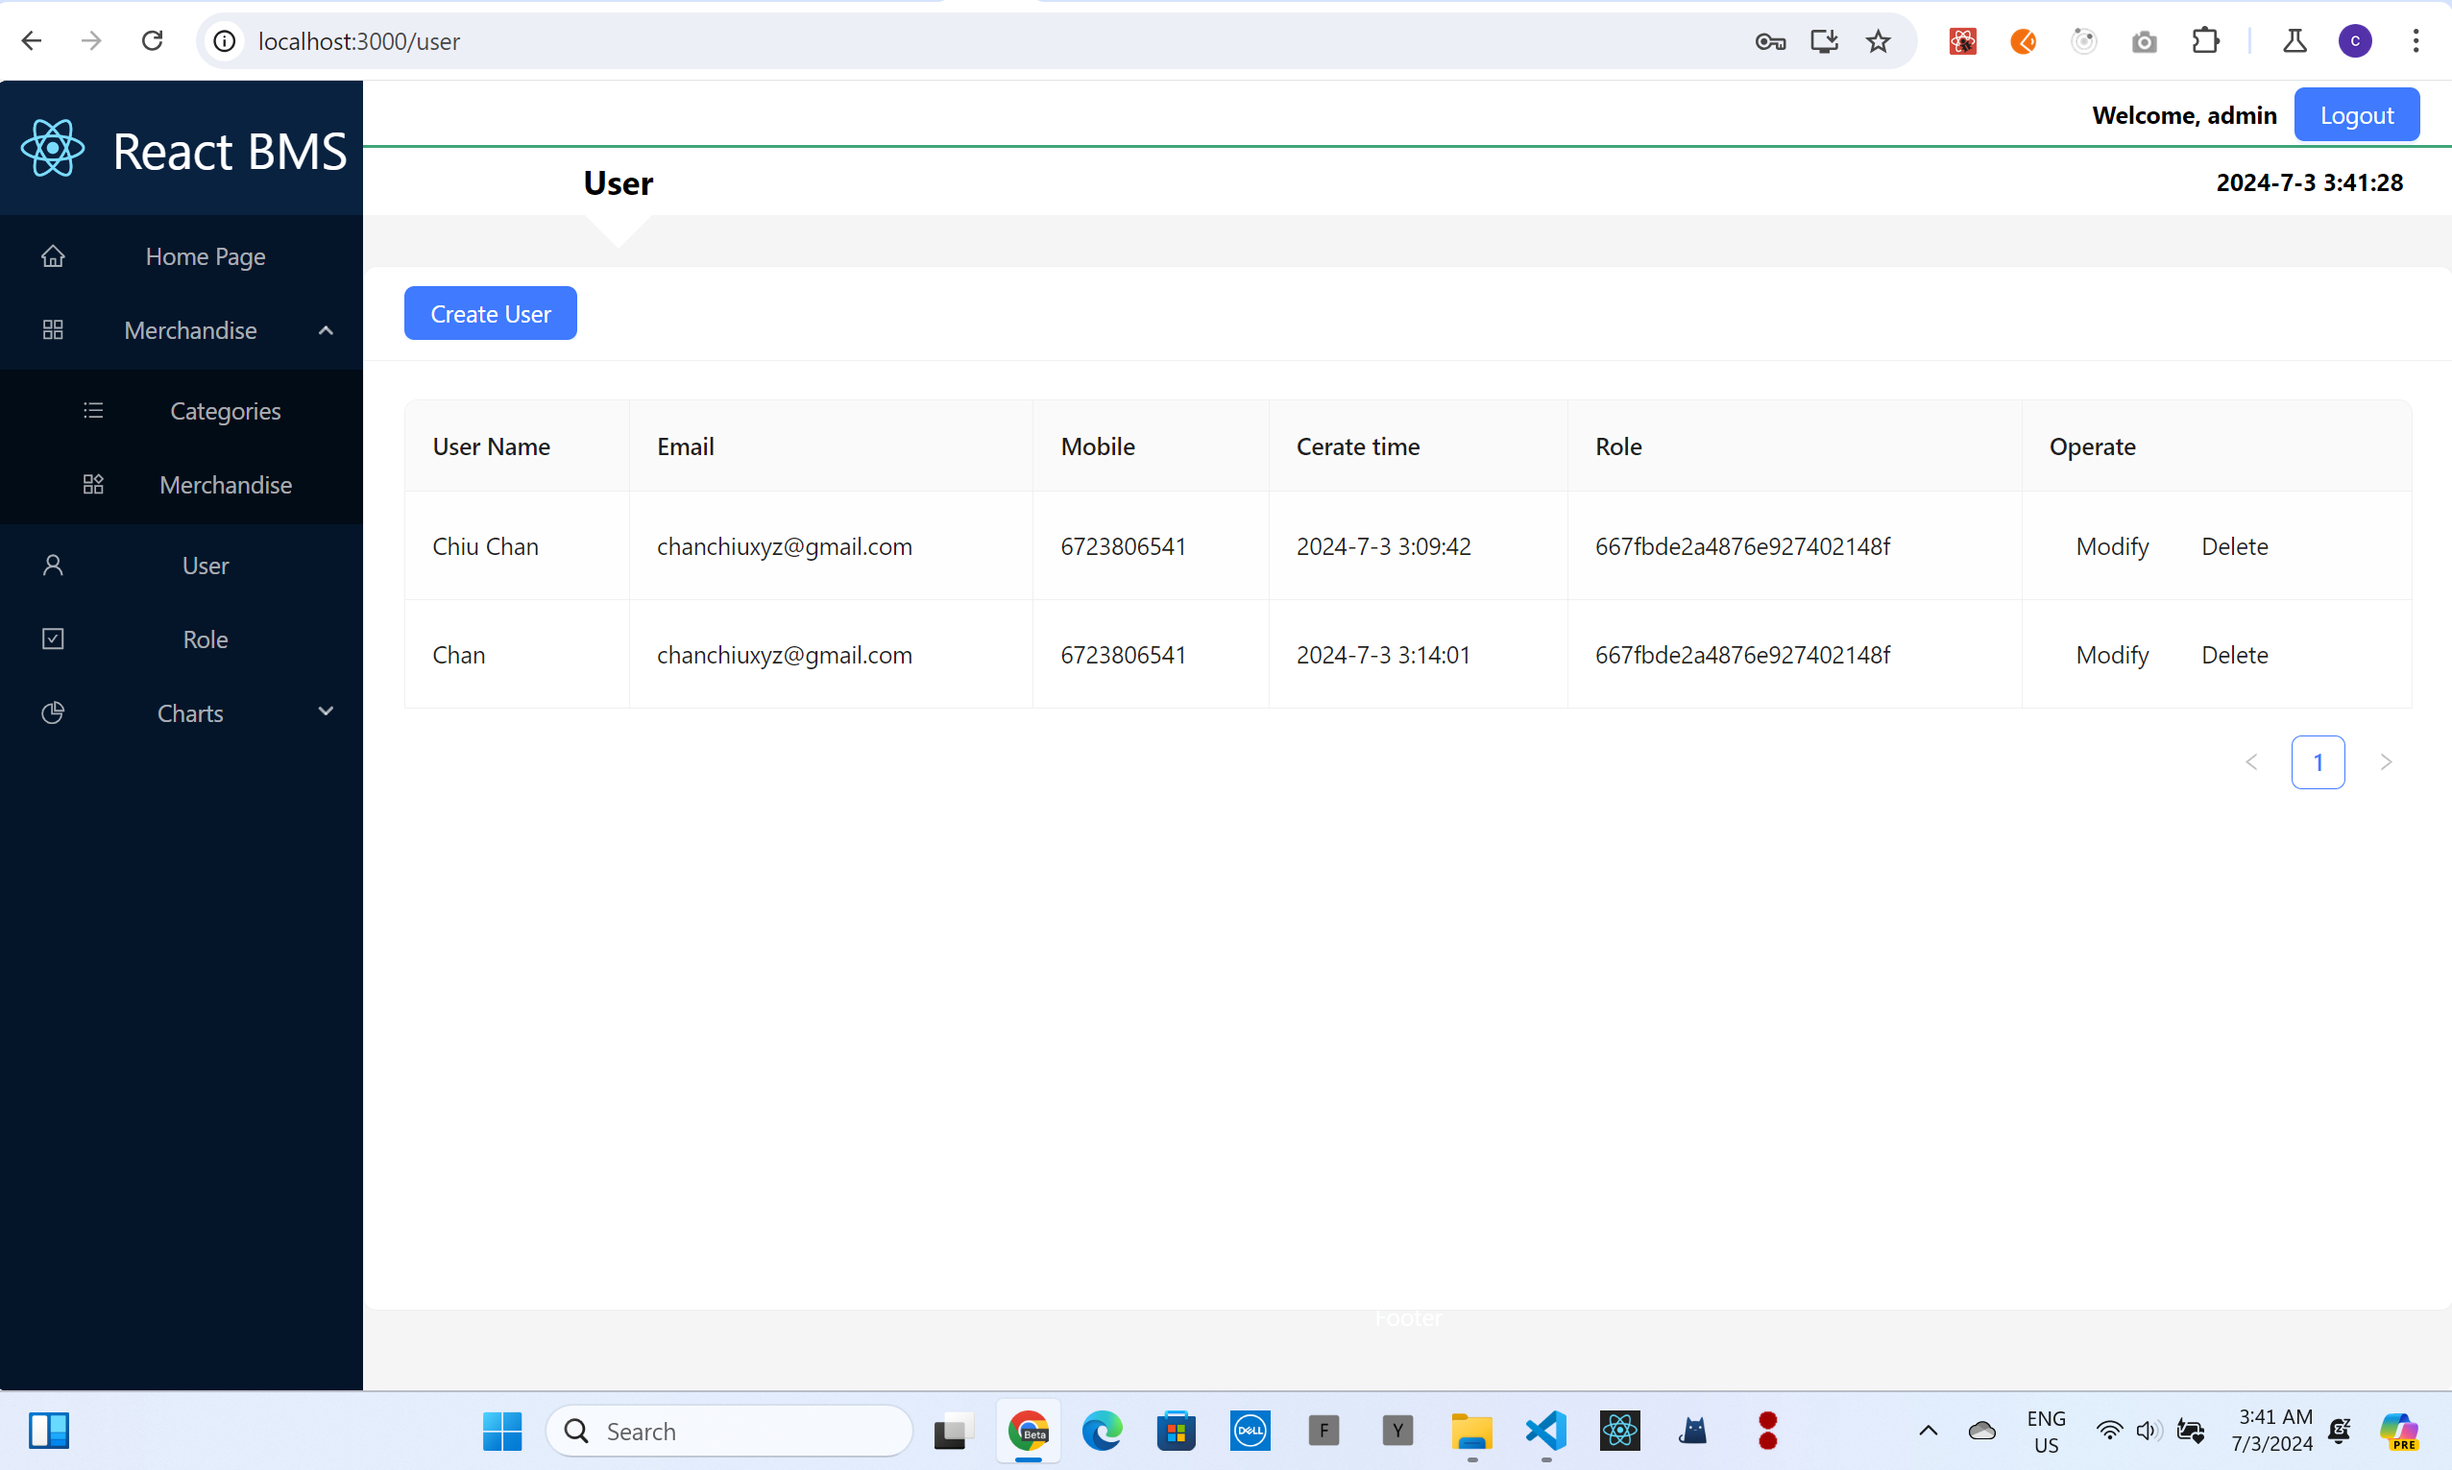
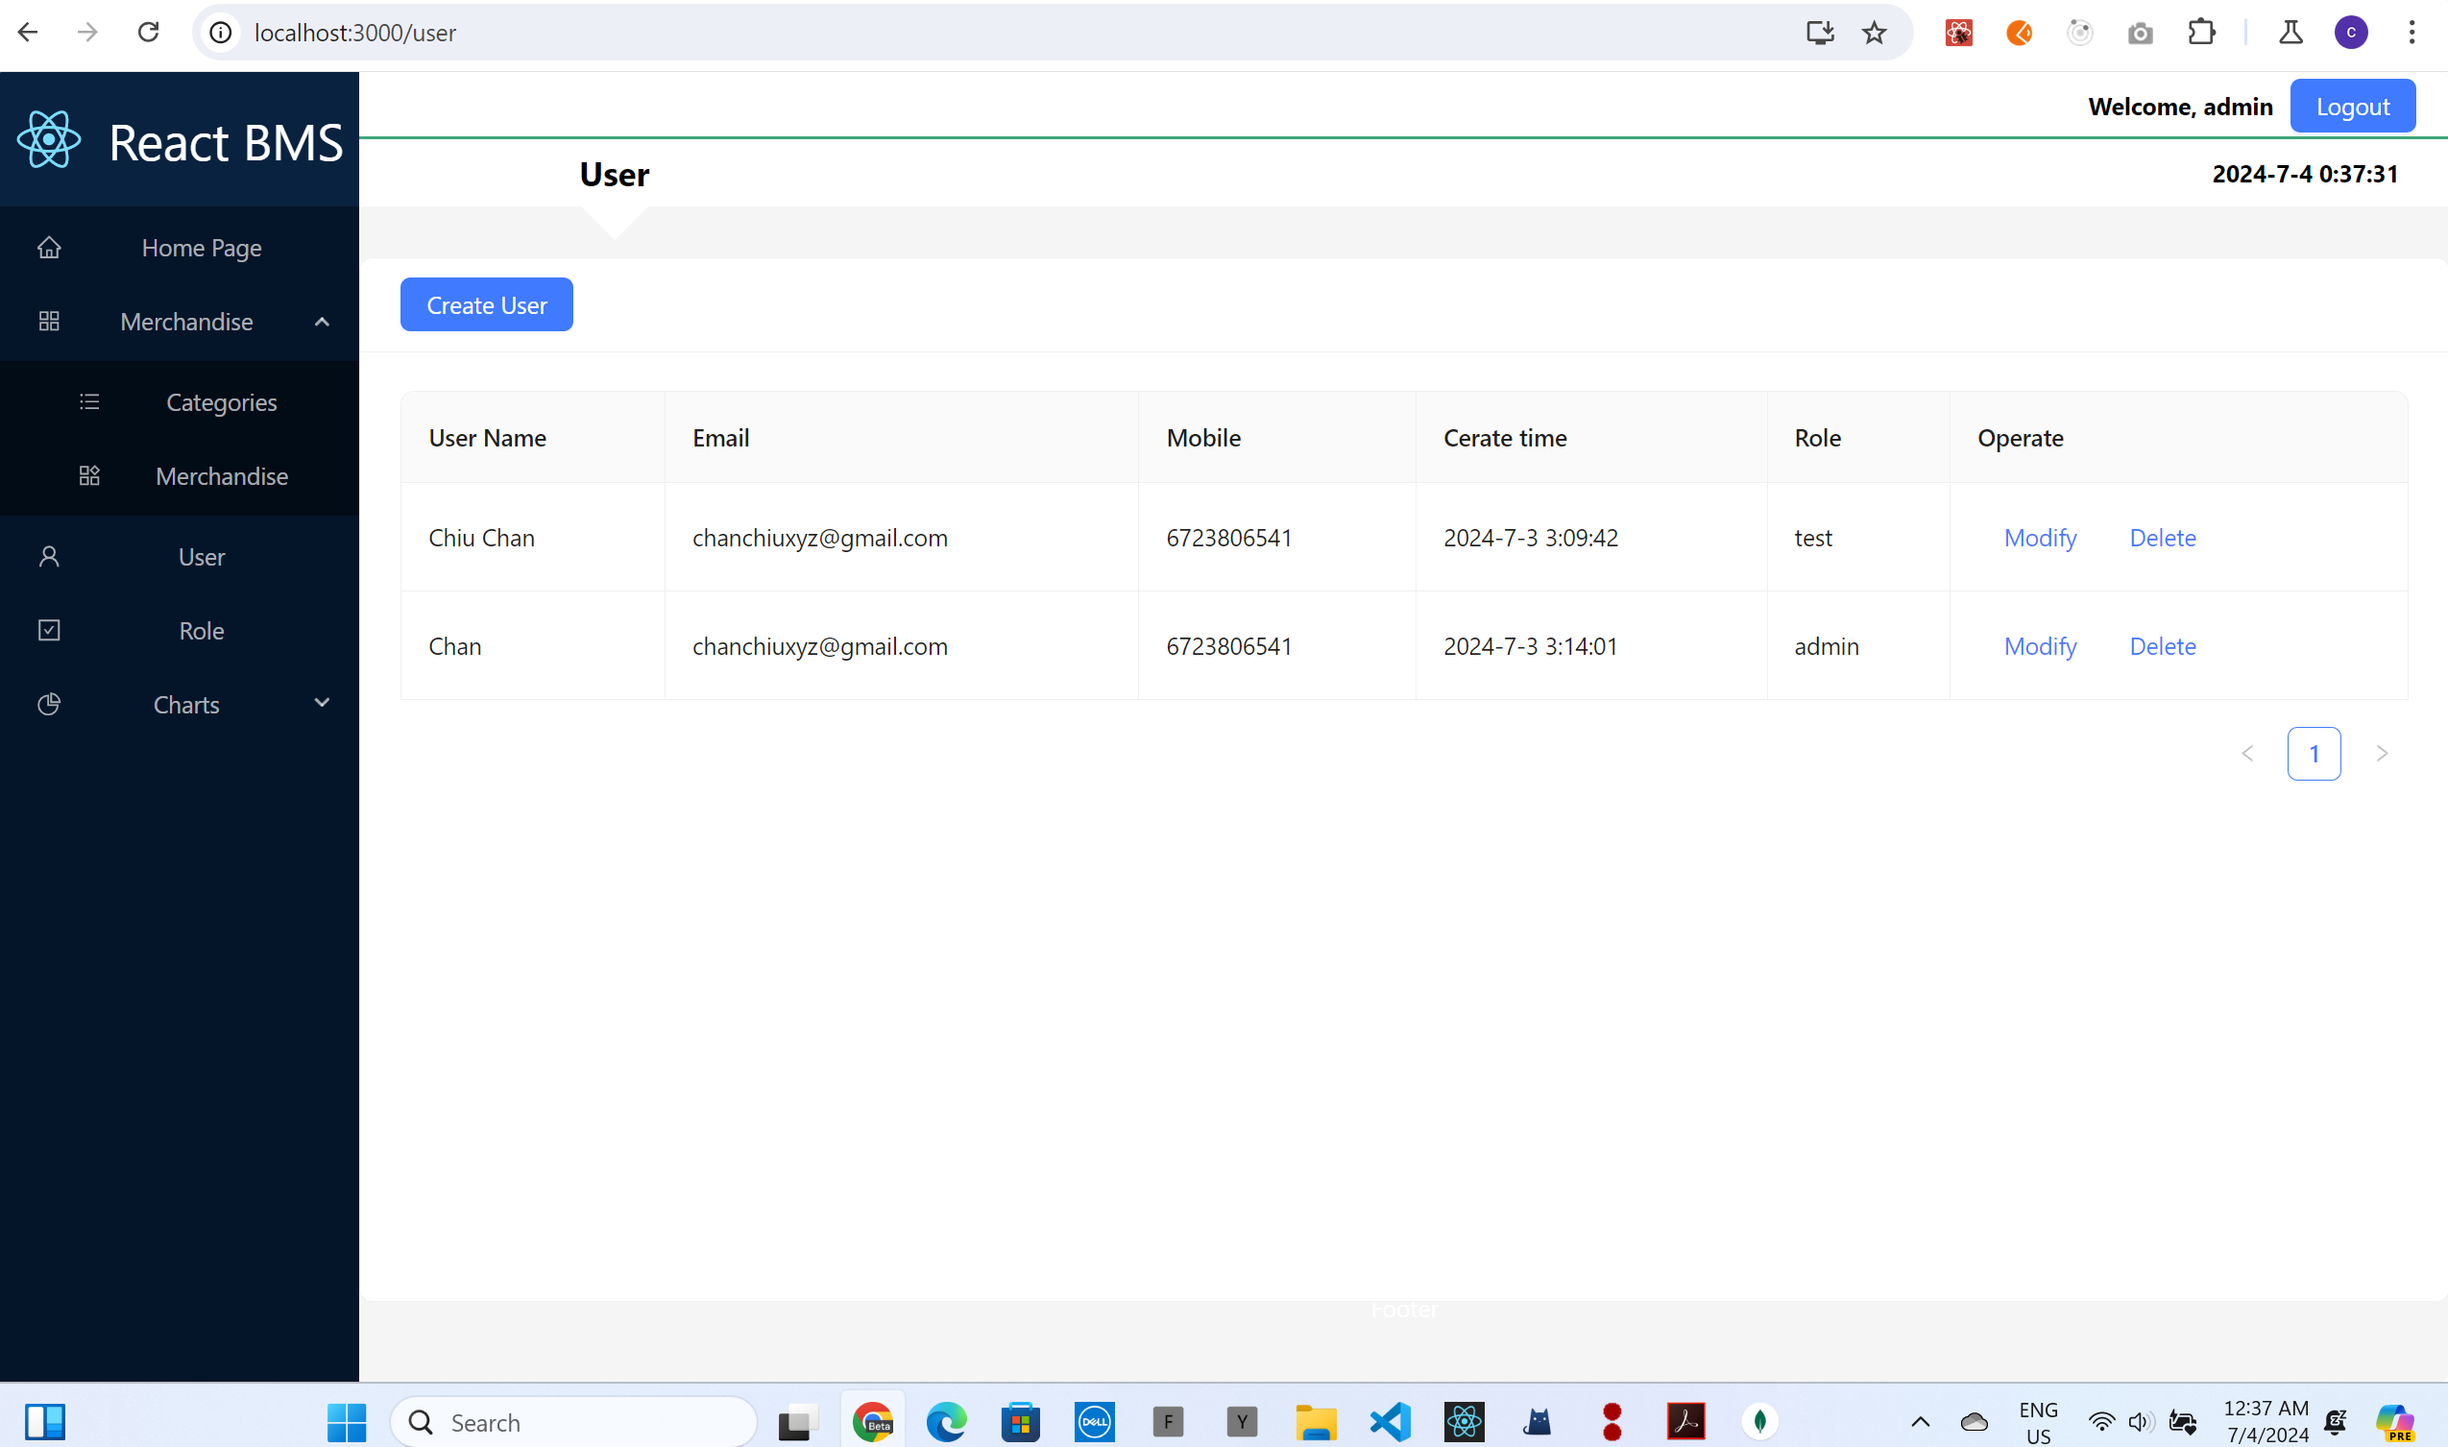
user finished

diff --git a/src/pages/user/user.jsx b/src/pages/user/user.jsx
@@ -5,7 +5,7 @@ import { Button, Card, Table, Modal, message } from 'antd'
 import './user.css'
 import { PAGE_SIZE } from '../../utils/constants'
 import { formateDate } from '../../utils/dateUtils'
-import { reqAddOrUpdateUser, reqUsers } from '../../api'
+import { reqAddOrUpdateUser, reqDeleteUser, reqUsers } from '../../api'
 import UserForm from './user-form'
 // import MyInput from './input'
 
@@ -15,6 +15,7 @@ export default function User() {
   const [users, setUsers] = useState([])
   const [user, setUser] = useState(null)
   const [roles, setRoles] = useState([])
+  const [roleNames, setRoleNames] = useState({})
   const [isShow, setIsShow] = useState(false)
   const formRef = useRef(null)
 
@@ -30,8 +31,18 @@ export default function User() {
           const {users, roles} = result.data
           setUsers(users)
           setRoles(roles)
+          initRoleNames(roles)
 
       }
+  }
+
+  const initRoleNames = (roles) => {
+     const roleNames = roles.reduce((pre, role) => {
+          pre[role._id] = role.name
+          return pre
+      },{})
+          setRoleNames(roleNames)
+          console.log(roleNames)
   }
 
   const addShow = () => {
@@ -43,7 +54,7 @@ export default function User() {
               Create User
           </Button>
   )
-
+//  create or update user. if user ? update : create
   const addOrUpdateUser = async() => {
     try {
       setIsShow(false)
@@ -56,7 +67,7 @@ export default function User() {
       }
       const result = await reqAddOrUpdateUser(formUser)
       if (result.status === 0) {
-        console.log(user)
+        // console.log(user)
         message.success(user? 'update successed' : 'create successed')
         getUsers()
       }
@@ -64,7 +75,23 @@ export default function User() {
       console.log('err:', errorInfo);
     }
   }
+//  delete user
+  const deleteUser = async (user) => {
+      const result = await reqDeleteUser(user._id)
+      if (result.status === 0) {
+          message.success('deleted')
+      } else {
+          message.error('delete err', result.errorInfo)
+      }
+      
+      getUsers()
+  }
 
+  const showUpdate = (user) => {
+      setUser(user)
+      setIsShow(true)
+
+  }
   const columns = [
         {
             title: 'User Name',
@@ -86,14 +113,14 @@ export default function User() {
         {
             title: 'Role',
             dataIndex: 'role_id',
-            // render: (role_id) => roleNames[role_id]
+            render: (role_id) => roleNames[role_id]
         },
         {
             title: 'Operate',
             render: (user) => (
                 <span>
-                    <Button type='type' onClick={() => console.log(user) }>Modify</Button>
-                    <Button type='type' onClick={() => console.log(user)}>Delete</Button>
+                    <Button type='link' onClick={() => showUpdate(user)}>Modify</Button>
+                    <Button type='link' onClick={() => deleteUser(user)}>Delete</Button>
                 </span>
             )
         }
@@ -111,10 +138,11 @@ export default function User() {
         />
 
         <Modal 
-            title={user && user.id ? 'Modify User' : 'Create User'}
+            title={user && user._id ? 'Modify User' : 'Create User'}
             open={isShow}
             onCancel={()=> setIsShow(false)}
             onOk={addOrUpdateUser}
+            destroyOnClose
         >
           {/* <UserForm ref={formRef} /> */}
           <UserForm ref={formRef}

diff --git a/src/pages/user/user-form.jsx b/src/pages/user/user-form.jsx
@@ -1,4 +1,4 @@
-import React, { forwardRef } from 'react'
+import React, { forwardRef, useEffect } from 'react'
 
 import { Form, Input, Select } from 'antd'
 
@@ -7,14 +7,17 @@ const Option = Select.Option
 
  const UserForm = forwardRef(function UserForm(props, ref) {
 
+
+
     const formItemLayout = {
         labelCol: { span: 6 },  
         wrapperCol: { span: 15 },
     }
     const {roles, user} = props
+    console.log(user)
   return (
-    <Form {...formItemLayout} className='user-form' ref={ref}>
-        <Item label='User Name:' name='username'>
+    <Form {...formItemLayout} className='user-form' ref={ref} initialValues={user}>
+        <Item label='User Name:' name='username' >
             <Input placeholder='user name' />
 
         </Item>
@@ -24,7 +27,7 @@ const Option = Select.Option
 
         </Item>
 
-        <Item label='Mobile' name='phone'>
+        <Item label='Mobile' name='phone' >
             <Input placeholder='mobile' />
 
         </Item>

diff --git a/README.md b/README.md
@@ -359,8 +359,12 @@ router.get('/manage/user/list', (req, res) => {
 ## user layout (Jul/2/2024)
 ![](./screenShot/usercreate.png)
 
-## user save to back-end and show in front-end  (Jul/2/2024)
+## user save to back-end and show in front-end  (Jul/3/2024)
 ![](./screenShot/userlist.png)
+
+## user modify and delete(commit to back-end) finished  (Jul/4/2024)
+![](./screenShot/usermodify.png)
+
 
 
 
